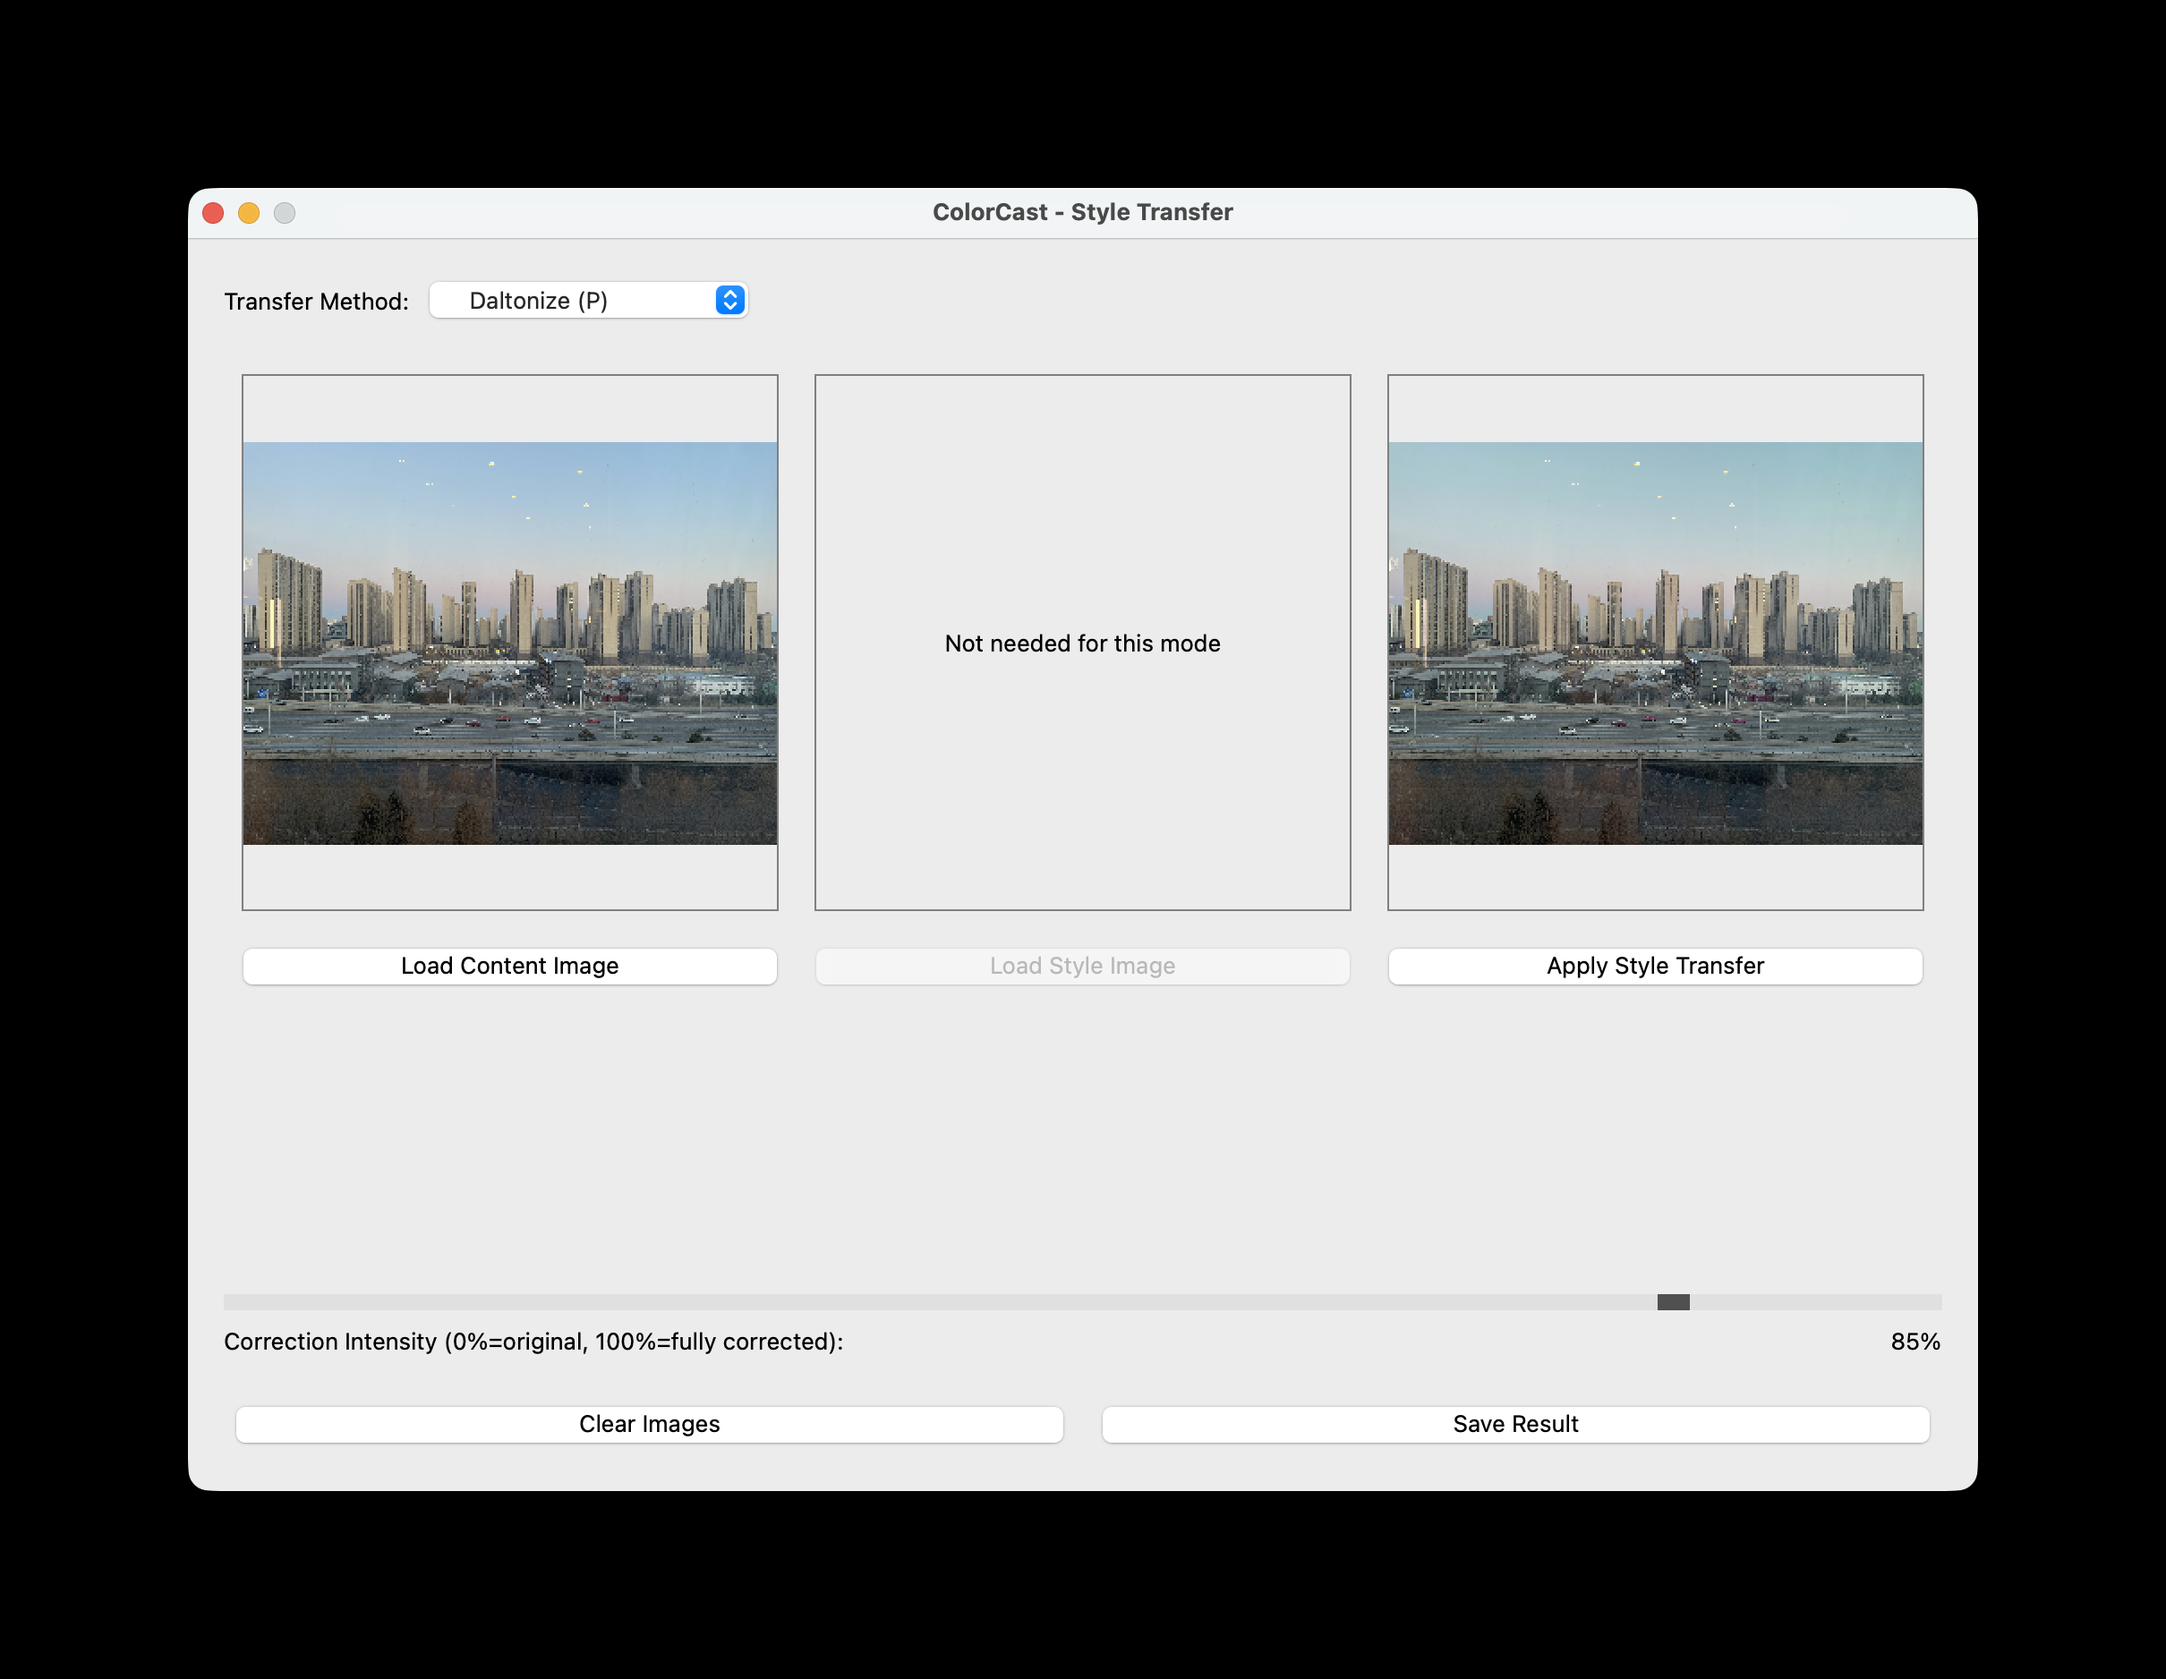
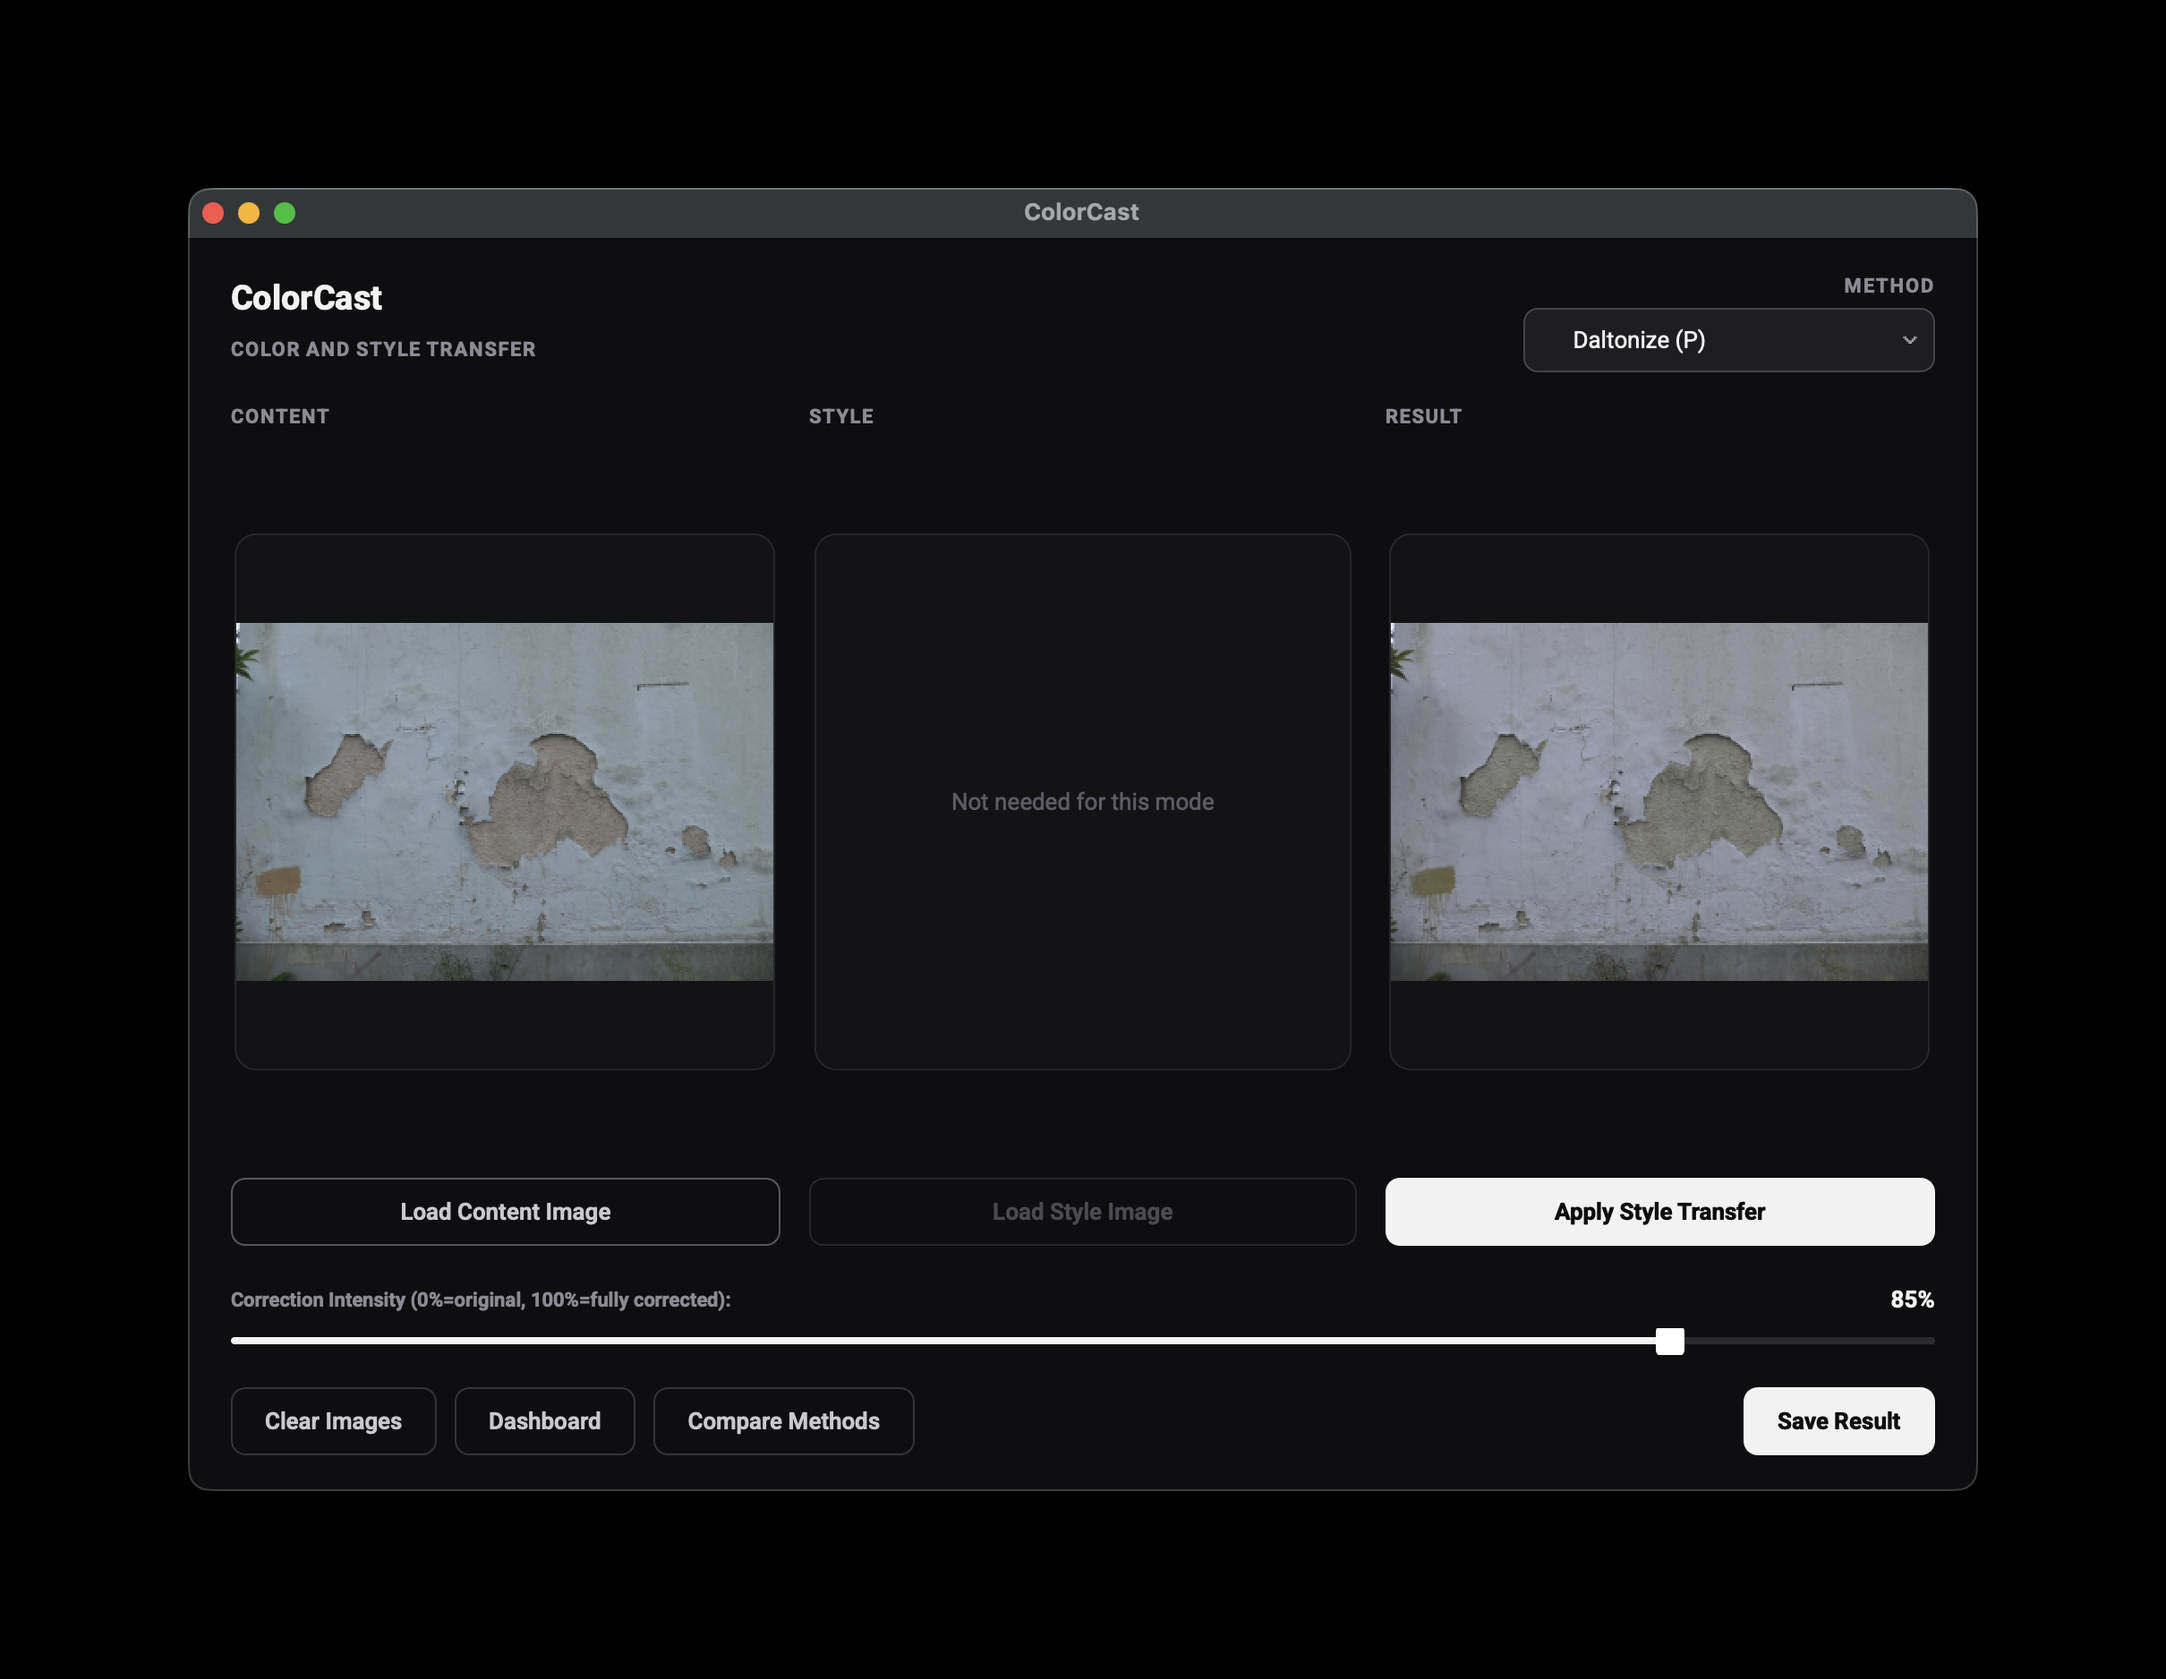
docs: update README, CHANGELOG, and screenshots for v2.6.0
- README test metrics: 378 passing, 1 skipped (up from 361)
- README new features: appearance spaces, dashboard CLI, GUI theme
- README CLI and Python API examples for appearance + dashboard
- CHANGELOG [2.6.0] entries covering all prior commits
- Replace dashboard_report.png with metric-labelled ICtCp variant
- Update interface screenshots to reflect the new dark theme

diff --git a/colorcast/_version.py b/colorcast/_version.py
@@ -6,4 +6,4 @@ import Python (``CITATION.cff``, ``.zenodo.json``) carry their own
 copy; update all of them in sync when cutting a release.
 """
 
-__version__ = "2.5.0"
+__version__ = "2.6.0"

diff --git a/README.md b/README.md
@@ -17,9 +17,11 @@
 - **Selective Regional Transfer** - Target shadows, midtones, or highlights specifically
 - **Modular Package** - Use as Python API or run GUI/CLI
 - **Performance Optimized** - LRU caching and batch processing support
-- **Tested** - 75% test coverage with 361 passing tests
-- **Documented** - API documentation and examples
-- **Plugin Architecture** - Easy to add custom transfer methods
+- **Tested** – 75% test coverage with 378 passing tests
+- **Documented** – API documentation and examples
+- **Perceptually Uniform ΔE Metrics** – CIELAB (defaults to CIEDE2000) and ICtCp (HDR, BT.2100) appearance spaces for ranking CVD deficiency severity
+- **Plugin Architecture** – Add custom transfer methods through plugins
+- **Minimal Dark Theme** – Dark interface with a neutral canvas, bordered cards, and white action buttons
 
 ### Transfer Methods
 
@@ -51,7 +53,7 @@ _CVD Accessibility Dashboard: side-by-side simulations and error maps for all th
 
 _Method comparison: ranked results across multiple metrics and transfer algorithms_
 
-![Dashboard Report](imgs/dashboard_report.png)
+![Dashboard Report](imgs/dashboard_report_ICtCp.png)
 
 _Full dashboard report summarizing simulation results and Daltonization efficacy_
 
@@ -166,6 +168,12 @@ Get package information:
 colorcast info --version
 ```
 
+Generate a CVD accessibility dashboard report:
+
+```bash
+colorcast dashboard image.jpg -o report.png --appearance ictcp
+```
+
 **CLI Options:**
 
 - `-m, --method`: Transfer method (histogram, meanstd, lab_reinhard, lut_linear, lut_scurve, lut_contrast, selective_shadows, selective_midtones, selective_highlights, simulate_protanopia, simulate_deuteranopia, simulate_tritanopia, daltonize_protanopia, daltonize_deuteranopia, daltonize_tritanopia)
@@ -237,6 +245,30 @@ style = load_image("style.jpg")
 
 method = registry.get_method("histogram")
 result = method.transfer(content, style)
+```
+
+#### Using Appearance Spaces for Perceptually Uniform Metrics
+
+```python
+from colorcast.analysis import make_appearance_space, get_error_map
+from colorcast.processing.simulation import ColorBlindSimulator
+from colorcast import load_image
+
+# Load image and simulate color-vision deficiency
+image = load_image("content.jpg")
+simulator = ColorBlindSimulator()
+simulated = simulator.transform_color_space(image, "deuteranopia")
+
+# Create appearance space by name (CIELAB defaults to CIEDE2000)
+cielab = make_appearance_space("cielab")
+ictcp = make_appearance_space("ictcp")  # HDR-aware BT.2100
+
+# Compute error map with appearance-based ΔE
+error_map = get_error_map(image, simulated, appearance=ictcp)
+
+# Access the appearance delta
+print(f"Space: {error_map.appearance_delta_name}")
+print(f"Mean ΔE: {error_map.appearance_delta.mean():.2f}")
 ```
 
 #### Batch Processing
@@ -330,7 +362,7 @@ pytest tests/test_transfer_methods.py
 pytest -v
 ```
 
-**Test Coverage:** 75% (361 passing, 1 skipped)
+**Test Coverage:** 75% (378 passing, 1 skipped)
 
 - Core transfer methods: 100% coverage
 - Full test suite including integration, performance, and property-based tests
@@ -440,7 +472,7 @@ If you use ColorCast in academic work, please cite it as:
   title     = {ColorCast: Color Transfer Toolkit for Python},
   doi       = {10.5281/zenodo.18550038},
   url       = {https://github.com/MichailSemoglou/ColorCast},
-  version   = {2.5.0},
+  version   = {2.6.0},
   year      = {2026},
 }
 ```

diff --git a/CHANGELOG.md b/CHANGELOG.md
@@ -1,5 +1,27 @@
 # Changelog
 
+## [2.6.0] – 2026-08-05
+
+### Added
+
+- Perceptually uniform appearance-space abstraction in `colorcast/analysis/appearance.py` with two backends: **CIELAB** (legacy, D65) and **ICtCp** (ITU-R BT.2100, HDR-aware, ΔE scaled ×720). The `AppearanceSpace` protocol exposes `from_rgb(rgb)` and `delta_E(a, b)` methods.
+- `ErrorMap` carries two new optional fields — `appearance_delta` (per-pixel ΔE) and `appearance_delta_name` (space identifier) — populated when an `AppearanceSpace` is passed to `get_error_map()`.
+- `get_error_map()` accepts an optional keyword `appearance=` parameter for computing appearance-based ΔE alongside the existing Euclidean and CIEDE2000 metrics.
+- `compute_dashboard()` accepts an `appearance=` keyword and ranks deficiencies by the appearance metric when available; `_summarize` prefers `appearance_delta` over `chroma_error_dE00` over `chroma_error`.
+- New CLI subcommand: `colorcast dashboard IMAGE [-o OUTPUT] [--appearance {cielab,ictcp}]` generates a full-resolution CVD accessibility report.
+- GUI Dashboard dialog gained a "ΔE metric" dropdown (CIELAB / ICtCp) in the bottom button bar; changing it re-triggers computation.
+- `make_appearance_space(name)` factory function centralizes appearance-space creation by name; CLI and GUI now route through it, eliminating duplicated selection logic and brittle combobox-index coupling.
+- `ErrorMap.preferred_metric()` method encapsulates the metric-priority rule (appearance_delta > chroma_error_dE00 > chroma_error), so dashboard summaries no longer encode this domain judgment directly.
+- Consolidated `srgb_to_linear` gamma-decoding utility into `colorcast/utils/color_utils.py`, removing duplicate implementations from `appearance.py` and `simulation.py`.
+- `AppearanceSpace` ABC docstring now documents thread-safety requirements for concurrent `delta_E` calls on shared instances; JND threshold comment restored in `dashboard.py:136` explaining why 1.0 ΔE ≈ one just-noticeable-difference for both CIEDE2000 and ΔE_ITP.
+- Report filename and title now include the ΔE metric label (e.g. ``dashboard_report_ictcp.png``, ``"CVD Accessibility Dashboard – ICtCp"``), derived from ``DashboardResult.metric_label``.
+
+### Changed
+
+- `CIELABSpace` default metric changed from `cie76` to `ciede2000` for better perceptual uniformity.
+- Replaced the QDarkStyle dependency with a custom QSS stylesheet and redesigned the GUI with a dark canvas (#171717), white pill buttons, hairline borders (#3d3d3d), and no drop shadows.
+- README test metrics updated: 378 passing, 1 skipped (up from 361 in v2.5.0).
+
 ## [2.5.0] – 2026-08-02
 
 ### Added

diff --git a/docs/index.rst b/docs/index.rst
@@ -1,7 +1,7 @@
 ColorCast Documentation
 ======================
 
-.. image:: https://img.shields.io/badge/version-2.5.0-blue.svg
+.. image:: https://img.shields.io/badge/version-2.6.0-blue.svg
    :target: https://github.com/MichailSemoglou/ColorCast
    :alt: Version
 
